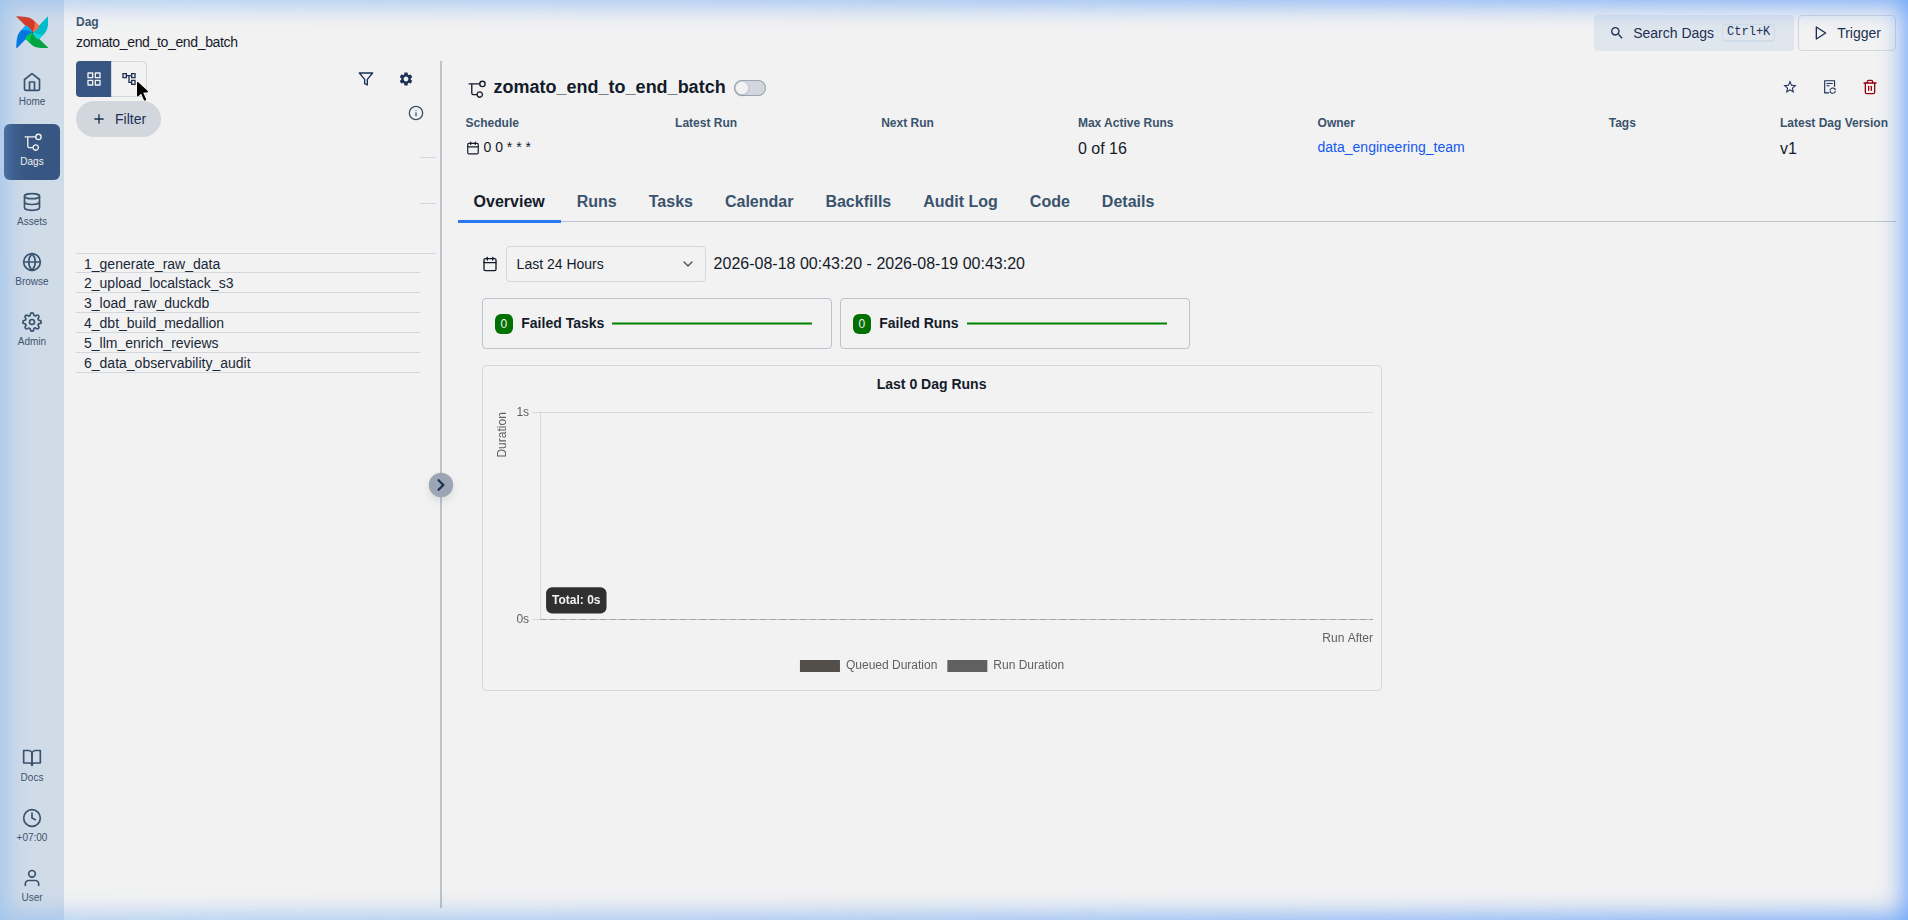
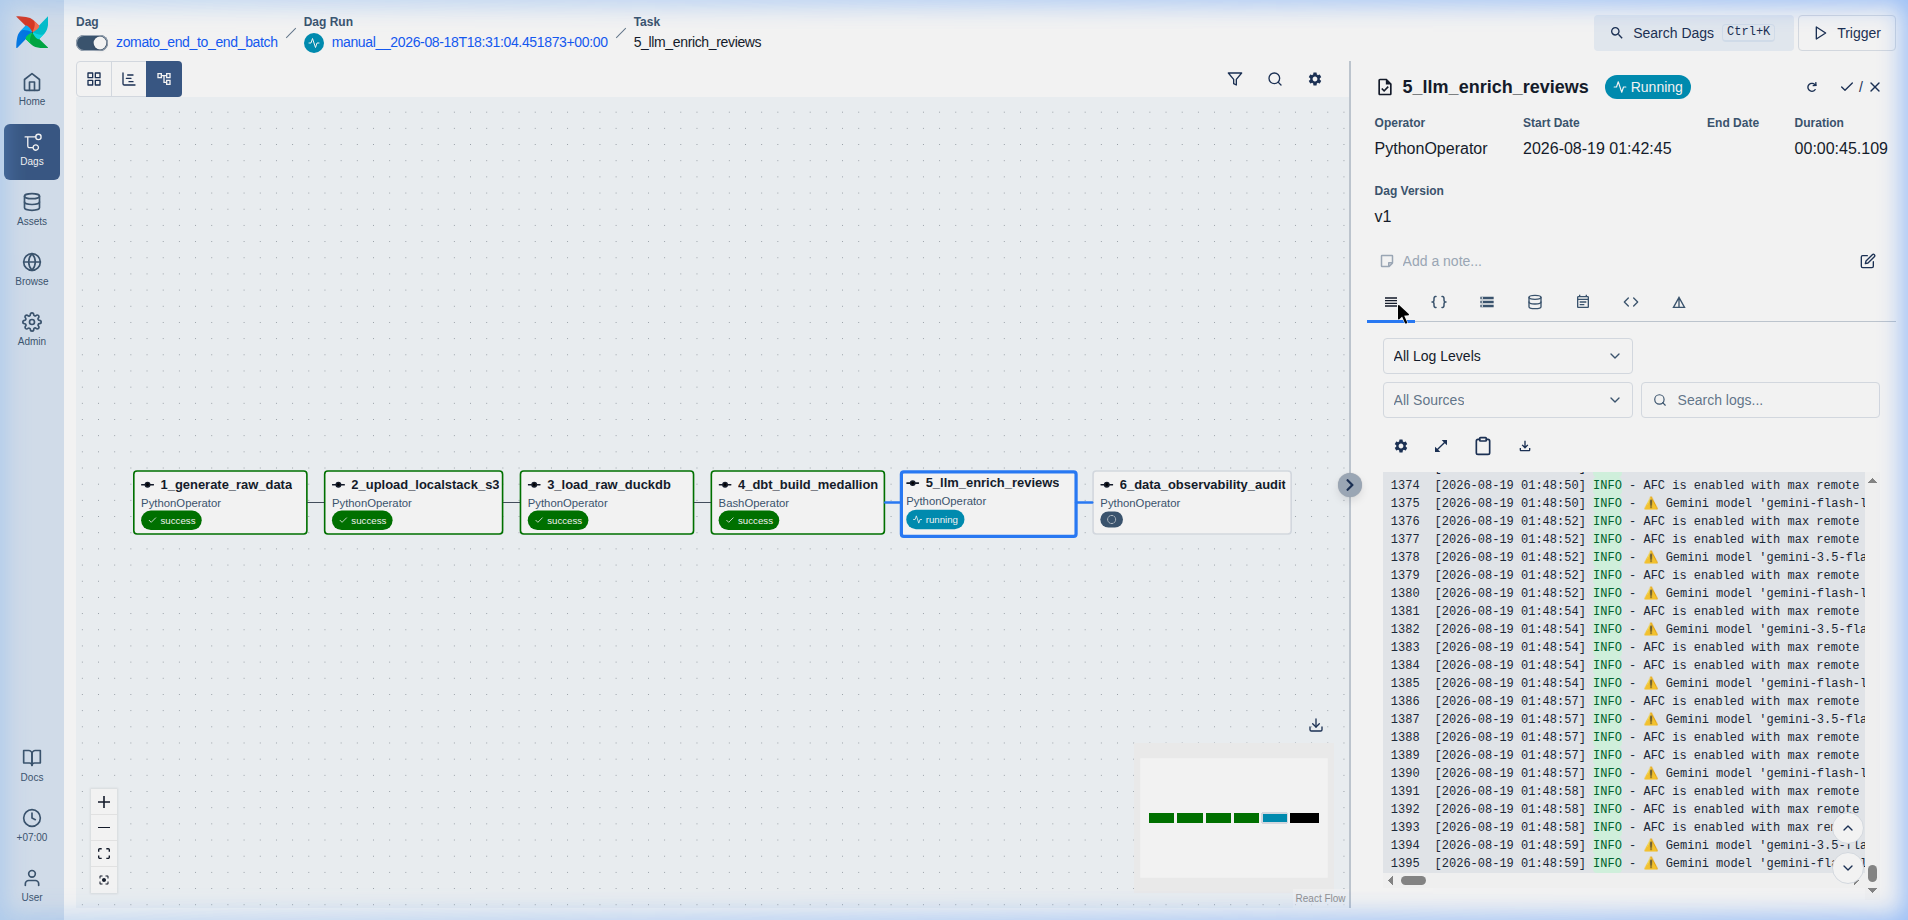
fix(airflow): set PROJECT_ROOT context in DAG tasks to ensure clean execution and update pipeline screenshot

diff --git a/app/pages/4_🚨_Data_Observability.py b/app/pages/4_🚨_Data_Observability.py
@@ -11,9 +11,7 @@ sys.path.insert(0, os.path.abspath(os.path.join(os.path.dirname(__file__), "../.
 from ai.anomaly_insights import generate_anomaly_narrative
 from scripts.data_observability import run_data_observability_audit
 
-st.set_page_config(
-    page_title="Data Observability & Lineage", page_icon="🚨", layout="wide"
-)
+st.set_page_config(page_title="Data Observability & Lineage", page_icon="🚨", layout="wide")
 
 st.title("🚨 AI-Powered Data Observability & Lineage Studio")
 st.markdown(
@@ -56,7 +54,9 @@ st.subheader("📊 Statistical Anomaly Feed (Z-Score Threshold = 2.0)")
 
 if os.path.exists(DB_PATH):
     con = duckdb.connect(DB_PATH, read_only=True)
-    df_rev = con.execute("SELECT * FROM MARTS.mart_daily_revenue ORDER BY order_date DESC;").fetchdf()
+    df_rev = con.execute(
+        "SELECT * FROM MARTS.mart_daily_revenue ORDER BY order_date DESC;"
+    ).fetchdf()
     con.close()
 
     if not df_rev.empty:
@@ -68,9 +68,20 @@ if os.path.exists(DB_PATH):
         df_anomalies = df_rev[df_rev["gmv_zscore"].abs() > 2.0]
 
         if not df_anomalies.empty:
-            st.warning(f"⚠ Detected {len(df_anomalies)} statistical anomalies in daily revenue metrics!")
+            st.warning(
+                f"⚠ Detected {len(df_anomalies)} statistical anomalies in daily revenue metrics!"
+            )
             st.dataframe(
-                df_anomalies[["order_date", "city", "gross_merchandise_value_gmv", "total_orders", "cancellation_rate_pct", "gmv_zscore"]],
+                df_anomalies[
+                    [
+                        "order_date",
+                        "city",
+                        "gross_merchandise_value_gmv",
+                        "total_orders",
+                        "cancellation_rate_pct",
+                        "gmv_zscore",
+                    ]
+                ],
                 use_container_width=True,
             )
         else:
@@ -86,7 +97,11 @@ if os.path.exists(DB_PATH):
             size="total_orders",
             hover_data=["city", "cancellation_rate_pct", "gmv_zscore"],
             title="Daily GMV Distribution & Outlier Detection",
-            labels={"gross_merchandise_value_gmv": "GMV (₹)", "order_date": "Date", "color": "Is Outlier"},
+            labels={
+                "gross_merchandise_value_gmv": "GMV (₹)",
+                "order_date": "Date",
+                "color": "Is Outlier",
+            },
             template="plotly_dark",
         )
         st.plotly_chart(fig, use_container_width=True)
@@ -98,23 +113,27 @@ st.subheader("🤖 Google Gemini Executive Root-Cause Incident Analysis")
 if st.button("🧠 Synthesize Root-Cause Analysis Report with Gemini AI"):
     with st.spinner("Synthesizing statistical metrics into executive briefing..."):
         anomalies_list = []
-        if 'df_anomalies' in locals() and not df_anomalies.empty:
+        if "df_anomalies" in locals() and not df_anomalies.empty:
             for _, row in df_anomalies.head(5).iterrows():
-                anomalies_list.append({
-                    "date": str(row["order_date"]),
-                    "city": row["city"],
-                    "gmv": float(row["gross_merchandise_value_gmv"]),
-                    "z_score": round(float(row["gmv_zscore"]), 2),
-                    "cancellation_rate": float(row["cancellation_rate_pct"]),
-                })
+                anomalies_list.append(
+                    {
+                        "date": str(row["order_date"]),
+                        "city": row["city"],
+                        "gmv": float(row["gross_merchandise_value_gmv"]),
+                        "z_score": round(float(row["gmv_zscore"]), 2),
+                        "cancellation_rate": float(row["cancellation_rate_pct"]),
+                    }
+                )
         else:
-            anomalies_list.append({
-                "date": "2024-02-25",
-                "city": "Hyderabad",
-                "gmv": 6662.0,
-                "z_score": 3.41,
-                "cancellation_rate": 0.0,
-            })
+            anomalies_list.append(
+                {
+                    "date": "2024-02-25",
+                    "city": "Hyderabad",
+                    "gmv": 6662.0,
+                    "z_score": 3.41,
+                    "cancellation_rate": 0.0,
+                }
+            )
 
         narrative = generate_anomaly_narrative(anomalies_list)
         st.markdown("### 📑 Gemini AI Executive Incident Report:")

diff --git a/ai/anomaly_insights.py b/ai/anomaly_insights.py
@@ -11,46 +11,54 @@ from ai.llm_client import LLMClient
 DB_PATH = "data/warehouse/zomato_dw.duckdb"
 
 
-def generate_anomaly_narrative():
-    if not os.path.exists(DB_PATH):
-        print(f"⚠ Database '{DB_PATH}' not found!")
-        return
+def generate_anomaly_narrative(anomalies=None):
+    if anomalies is not None:
+        if hasattr(anomalies, "to_json"):
+            records_json = anomalies.to_json(orient="records")
+        elif isinstance(anomalies, list):
+            records_json = json.dumps(anomalies)
+        else:
+            records_json = str(anomalies)
+    else:
+        if not os.path.exists(DB_PATH):
+            print(f"⚠ Database '{DB_PATH}' not found!")
+            return "⚠ Database not found for anomaly extraction."
 
-    con = duckdb.connect(DB_PATH, read_only=True)
+        con = duckdb.connect(DB_PATH, read_only=True)
 
-    # Extract top anomalies (|z-score| > 2.0)
-    anomaly_df = con.execute(
-        """
-        WITH stats AS (
+        # Extract top anomalies (|z-score| > 2.0)
+        anomaly_df = con.execute(
+            """
+            WITH stats AS (
+                SELECT
+                    AVG(gross_merchandise_value_gmv) AS mean_gmv,
+                    STDDEV(gross_merchandise_value_gmv) AS std_gmv,
+                    AVG(cancellation_rate_pct) AS mean_cancel_rate,
+                    STDDEV(cancellation_rate_pct) AS std_cancel_rate
+                FROM MARTS.mart_daily_revenue
+            )
             SELECT
-                AVG(gross_merchandise_value_gmv) AS mean_gmv,
-                STDDEV(gross_merchandise_value_gmv) AS std_gmv,
-                AVG(cancellation_rate_pct) AS mean_cancel_rate,
-                STDDEV(cancellation_rate_pct) AS std_cancel_rate
-            FROM MARTS.mart_daily_revenue
-        )
-        SELECT
-            r.order_date,
-            r.city,
-            r.gross_merchandise_value_gmv,
-            r.cancellation_rate_pct,
-            ROUND((r.gross_merchandise_value_gmv - s.mean_gmv) / NULLIF(s.std_gmv, 0), 2) AS gmv_z_score,
-            ROUND((r.cancellation_rate_pct - s.mean_cancel_rate) / NULLIF(s.std_cancel_rate, 0), 2) AS cancel_z_score
-        FROM MARTS.mart_daily_revenue r, stats s
-        WHERE ABS((r.gross_merchandise_value_gmv - s.mean_gmv) / NULLIF(s.std_gmv, 0)) > 2.0
-           OR ABS((r.cancellation_rate_pct - s.mean_cancel_rate) / NULLIF(s.std_cancel_rate, 0)) > 2.0
-        ORDER BY ABS((r.gross_merchandise_value_gmv - s.mean_gmv) / NULLIF(s.std_gmv, 0)) DESC
-        LIMIT 5;
-    """
-    ).fetchdf()
+                r.order_date,
+                r.city,
+                r.gross_merchandise_value_gmv,
+                r.cancellation_rate_pct,
+                ROUND((r.gross_merchandise_value_gmv - s.mean_gmv) / NULLIF(s.std_gmv, 0), 2) AS gmv_z_score,
+                ROUND((r.cancellation_rate_pct - s.mean_cancel_rate) / NULLIF(s.std_cancel_rate, 0), 2) AS cancel_z_score
+            FROM MARTS.mart_daily_revenue r, stats s
+            WHERE ABS((r.gross_merchandise_value_gmv - s.mean_gmv) / NULLIF(s.std_gmv, 0)) > 2.0
+               OR ABS((r.cancellation_rate_pct - s.mean_cancel_rate) / NULLIF(s.std_cancel_rate, 0)) > 2.0
+            ORDER BY ABS((r.gross_merchandise_value_gmv - s.mean_gmv) / NULLIF(s.std_gmv, 0)) DESC
+            LIMIT 5;
+        """
+        ).fetchdf()
 
-    con.close()
+        con.close()
 
-    if anomaly_df.empty:
-        print("✅ No significant anomalies found for AI narrative synthesis.")
-        return
+        if anomaly_df.empty:
+            print("✅ No significant anomalies found for AI narrative synthesis.")
+            return "✅ No significant statistical anomalies detected in the current warehouse run."
 
-    records_json = anomaly_df.to_json(orient="records")
+        records_json = anomaly_df.to_json(orient="records")
 
     llm = LLMClient()
     system_prompt = (

diff --git a/airflow/dags/zomato_batch_dag.py b/airflow/dags/zomato_batch_dag.py
@@ -1,4 +1,11 @@
+import os
+import sys
 from datetime import datetime, timedelta
+
+# Ensure project root is in sys.path and set working directory context
+PROJECT_ROOT = os.path.abspath(os.path.join(os.path.dirname(__file__), "../.."))
+if PROJECT_ROOT not in sys.path:
+    sys.path.insert(0, PROJECT_ROOT)
 
 try:
     from airflow import DAG
@@ -9,7 +16,6 @@ try:
 except ImportError:
     AIRFLOW_AVAILABLE = False
 
-# Default args for Airflow DAG
 default_args = {
     "owner": "data_engineering_team",
     "depends_on_past": False,
@@ -21,30 +27,35 @@ default_args = {
 
 
 def task_generate_raw_data():
+    os.chdir(PROJECT_ROOT)
     from generate_sample_data import generate_zomato_dataset
 
     generate_zomato_dataset()
 
 
 def task_upload_localstack_s3():
+    os.chdir(PROJECT_ROOT)
     from scripts.init_localstack_s3 import upload_raw_data_to_s3
 
     upload_raw_data_to_s3()
 
 
 def task_load_raw_duckdb():
+    os.chdir(PROJECT_ROOT)
     from scripts.load_raw_duckdb import load_raw_tables
 
     load_raw_tables()
 
 
 def task_enrich_reviews():
+    os.chdir(PROJECT_ROOT)
     from ai.enrich_reviews import enrich_reviews_pipeline
 
     enrich_reviews_pipeline()
 
 
 def task_data_observability():
+    os.chdir(PROJECT_ROOT)
     from scripts.data_observability import run_data_observability_audit
 
     run_data_observability_audit()
@@ -79,7 +90,7 @@ if AIRFLOW_AVAILABLE:
 
         t4_dbt_build = BashOperator(
             task_id="4_dbt_build_medallion",
-            bash_command="cd zomato_dbt && dbt build --profiles-dir .",
+            bash_command=f"cd {PROJECT_ROOT}/zomato_dbt && dbt build --profiles-dir .",
         )
 
         t5_enrich_reviews = PythonOperator(
@@ -92,7 +103,6 @@ if AIRFLOW_AVAILABLE:
             python_callable=task_data_observability,
         )
 
-        # Pipeline DAG dependencies
         (
             t1_gen_data
             >> t2_s3_upload

diff --git a/airflow/dags/zomato_daily_incremental_dag.py b/airflow/dags/zomato_daily_incremental_dag.py
@@ -1,4 +1,11 @@
+import os
+import sys
 from datetime import datetime, timedelta
+
+# Ensure project root is in sys.path and set working directory context
+PROJECT_ROOT = os.path.abspath(os.path.join(os.path.dirname(__file__), "../.."))
+if PROJECT_ROOT not in sys.path:
+    sys.path.insert(0, PROJECT_ROOT)
 
 try:
     from airflow import DAG
@@ -20,6 +27,7 @@ default_args = {
 
 
 def task_incremental_data():
+    os.chdir(PROJECT_ROOT)
     from scripts.generate_daily_incremental_data import (
         generate_daily_incremental_data,
     )
@@ -28,18 +36,21 @@ def task_incremental_data():
 
 
 def task_upload_s3():
+    os.chdir(PROJECT_ROOT)
     from scripts.init_localstack_s3 import upload_raw_data_to_s3
 
     upload_raw_data_to_s3()
 
 
 def task_load_duckdb():
+    os.chdir(PROJECT_ROOT)
     from scripts.load_raw_duckdb import load_raw_tables
 
     load_raw_tables()
 
 
 def task_data_observability():
+    os.chdir(PROJECT_ROOT)
     from scripts.data_observability import run_data_observability_audit
 
     run_data_observability_audit()
@@ -73,7 +84,7 @@ if AIRFLOW_AVAILABLE:
 
         t4_dbt_build = BashOperator(
             task_id="4_dbt_medallion_build",
-            bash_command="cd zomato_dbt && dbt build --profiles-dir .",
+            bash_command=f"cd {PROJECT_ROOT}/zomato_dbt && dbt build --profiles-dir .",
         )
 
         t5_observability = PythonOperator(
